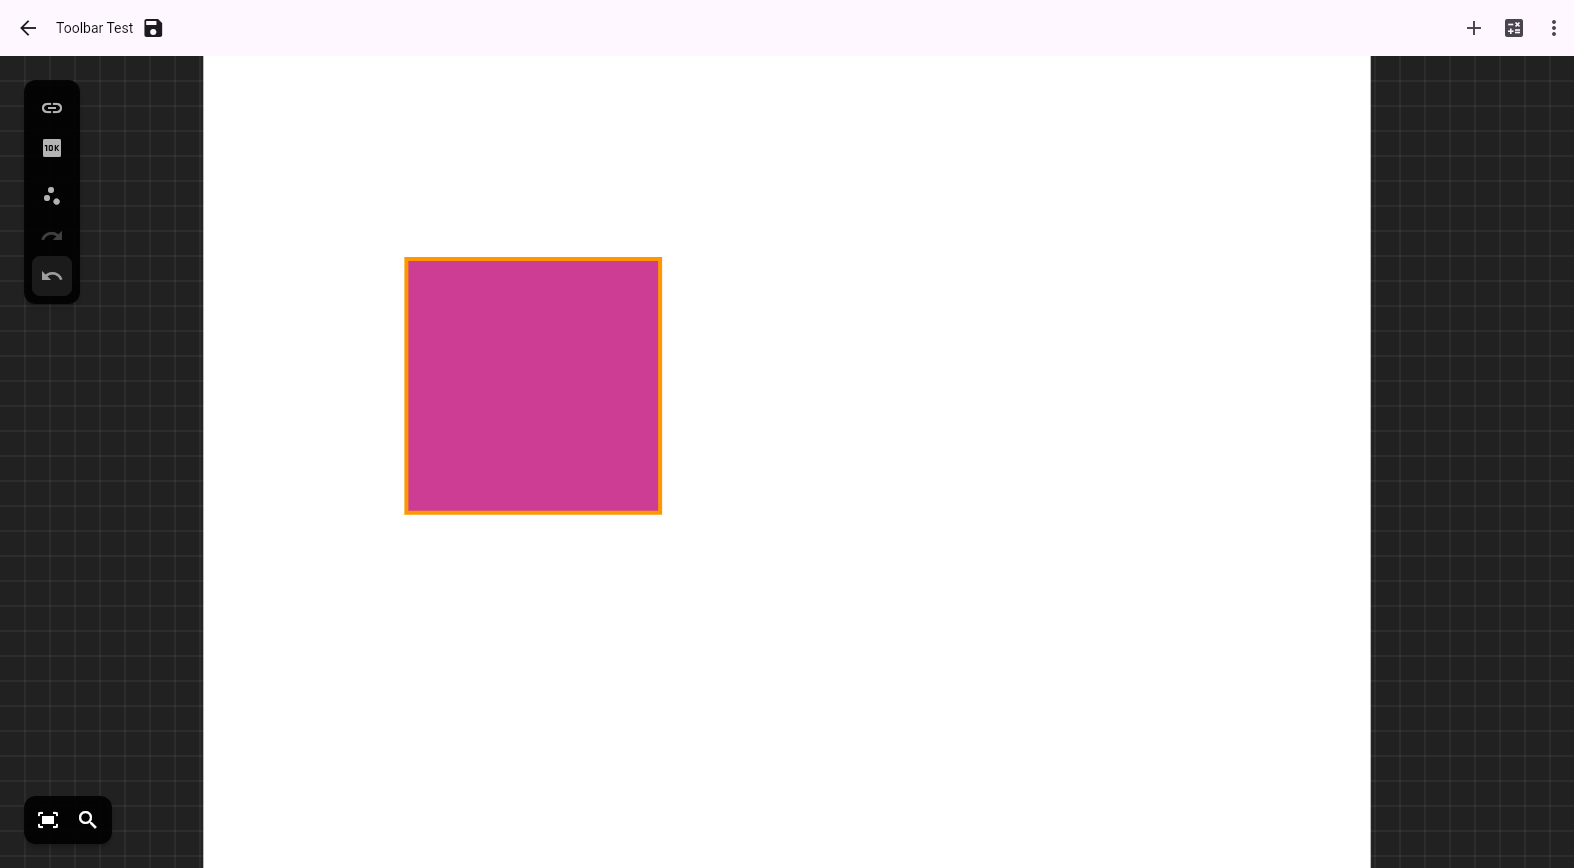
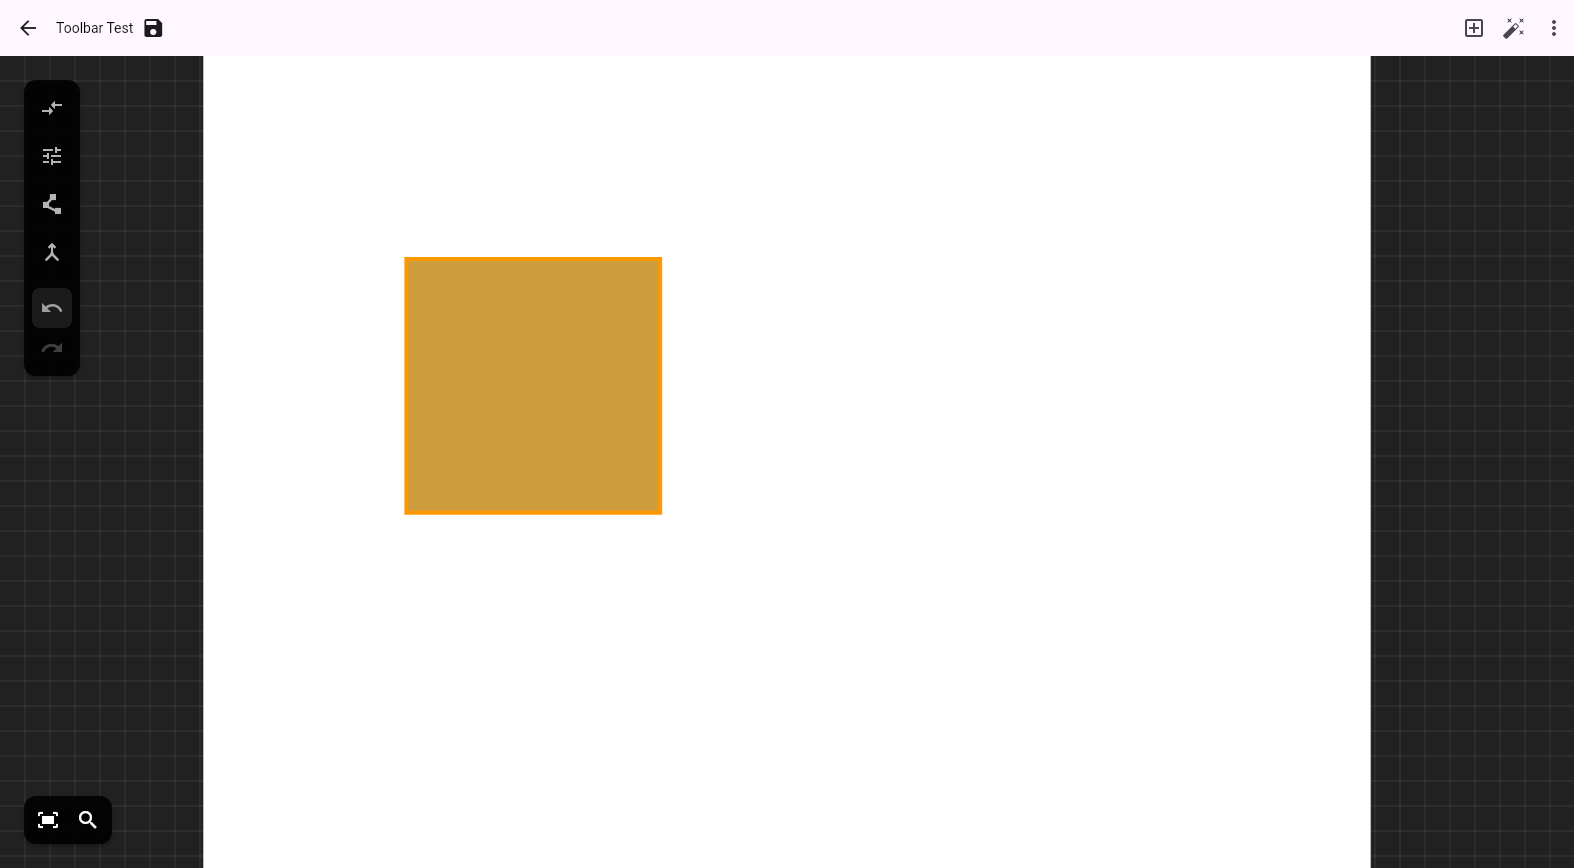
Update screens

diff --git a/frontend/integration_test/app_test.dart b/frontend/integration_test/app_test.dart
@@ -1,7 +1,12 @@
+import 'package:flutter/gestures.dart';
 import 'package:flutter/material.dart';
 import 'package:flutter_test/flutter_test.dart';
-import 'package:integration_test/integration_test.dart';
+import 'package:frontend/controllers/canvas_controller.dart';
 import 'package:frontend/main.dart' as app;
+import 'package:frontend/widgets/canvas_grid.dart';
+import 'package:frontend/widgets/controls/onscreen_menu.dart';
+import 'package:integration_test/integration_test.dart';
+import 'package:provider/provider.dart';
 
 void main() {
   final binding = IntegrationTestWidgetsFlutterBinding.ensureInitialized();
@@ -68,12 +73,12 @@ void main() {
       await binding.takeScreenshot('06_two_shapes');
 
       // Enter link mode
-      await tester.tap(find.byTooltip('Link Mode'));
+      await tester.tap(find.byTooltip('Relate Colors'));
       await tester.pumpAndSettle();
       await binding.takeScreenshot('07_link_mode_active');
 
       // Exit link mode
-      await tester.tap(find.byTooltip('Link Mode'));
+      await tester.tap(find.byTooltip('Relate Colors'));
       await tester.pumpAndSettle();
 
       // Enter edit vertices mode
@@ -115,7 +120,7 @@ void main() {
       await tester.pumpAndSettle();
 
       // Enter clamp mode
-      await tester.tap(find.byTooltip('Clamp Mode'));
+      await tester.tap(find.byTooltip('Limit Color Range'));
       await tester.pumpAndSettle();
       await binding.takeScreenshot('11_clamp_mode_no_selection');
 
@@ -164,7 +169,7 @@ void main() {
       await tester.pumpAndSettle();
 
       // Enter link mode
-      await tester.tap(find.byTooltip('Link Mode'));
+      await tester.tap(find.byTooltip('Relate Colors'));
       await tester.pumpAndSettle();
 
       // Tap two different locations to select both shapes
@@ -213,6 +218,95 @@ void main() {
       await binding.takeScreenshot('15_gallery_with_project');
 
       expect(find.text('Save Test'), findsOneWidget);
+    });
+
+    testWidgets('07 snap vertices together', (tester) async {
+      app.main();
+      await tester.pumpAndSettle(const Duration(seconds: 3));
+
+      // Create project
+      await tester.tap(find.text('New Painting'));
+      await tester.pumpAndSettle();
+      await tester.enterText(
+        find.widgetWithText(TextField, 'My Masterpiece'),
+        'Snap Test',
+      );
+      await tester.tap(find.text('Create'));
+      await tester.pumpAndSettle(const Duration(seconds: 2));
+
+      // Add two overlapping squares:
+      // shape 0 = (100,100)-(200,200), shape 1 = (120,120)-(220,220).
+      await tester.tap(find.byTooltip('Add New Shape'));
+      await tester.pumpAndSettle();
+      await tester.tap(find.byTooltip('Add New Shape'));
+      await tester.pumpAndSettle();
+
+      final controller = Provider.of<CanvasController>(
+        tester.element(find.byType(OnscreenMenu)),
+        listen: false,
+      );
+      final canvasOrigin = tester.getTopLeft(find.byType(CanvasGrid));
+      Offset toScreen(Offset world) =>
+          canvasOrigin +
+          world * controller.viewport.currentScale +
+          controller.viewport.currentOffset;
+
+      // Snap mode: tap shape 0's top-right corner, then shape 1's top-left.
+      await tester.tap(find.byTooltip('Snap Vertices Together'));
+      await tester.pumpAndSettle();
+      await tester.tapAt(toScreen(controller.allShapes[0].points[1]));
+      await tester.pumpAndSettle();
+      await tester.tapAt(toScreen(controller.allShapes[1].points[0]));
+      await tester.pumpAndSettle();
+
+      expect(controller.constraints.activeVertexLinks, hasLength(1));
+      expect(
+        controller.allShapes[1].points[0],
+        controller.allShapes[0].points[1],
+      );
+      await binding.takeScreenshot('16_snap_vertices_linked');
+
+      // Drag the shared corner in edit-vertices mode; both shapes follow.
+      await tester.tap(find.byTooltip('Snap Vertices Together'));
+      await tester.pumpAndSettle();
+      await tester.tap(find.byTooltip('Edit Vertices'));
+      await tester.pumpAndSettle();
+      // Select shape 0 by tapping a spot only it covers.
+      await tester.tapAt(toScreen(const Offset(110, 110)));
+      await tester.pumpAndSettle();
+
+      final corner = controller.allShapes[0].points[1];
+      // Mouse pointer so the drag slop stays well inside the handle radius.
+      final gesture = await tester.startGesture(
+        toScreen(corner),
+        kind: PointerDeviceKind.mouse,
+      );
+      for (int i = 0; i < 10; i++) {
+        await gesture.moveBy(const Offset(6, -4));
+        await tester.pump(const Duration(milliseconds: 16));
+      }
+      await gesture.up();
+      await tester.pumpAndSettle();
+
+      expect(controller.allShapes[0].points[1], isNot(corner));
+      expect(
+        controller.allShapes[1].points[0],
+        controller.allShapes[0].points[1],
+      );
+      await binding.takeScreenshot('17_snap_vertices_dragged');
+
+      // Separate them again.
+      await tester.tap(find.byTooltip('Edit Vertices'));
+      await tester.pumpAndSettle();
+      await tester.tap(find.byTooltip('Snap Vertices Together'));
+      await tester.pumpAndSettle();
+      await tester.tapAt(toScreen(controller.allShapes[0].points[1]));
+      await tester.pumpAndSettle();
+      await tester.tap(find.byTooltip('Separate Vertices'));
+      await tester.pumpAndSettle();
+
+      expect(controller.constraints.activeVertexLinks, isEmpty);
+      await binding.takeScreenshot('18_snap_vertices_separated');
     });
   });
 }
